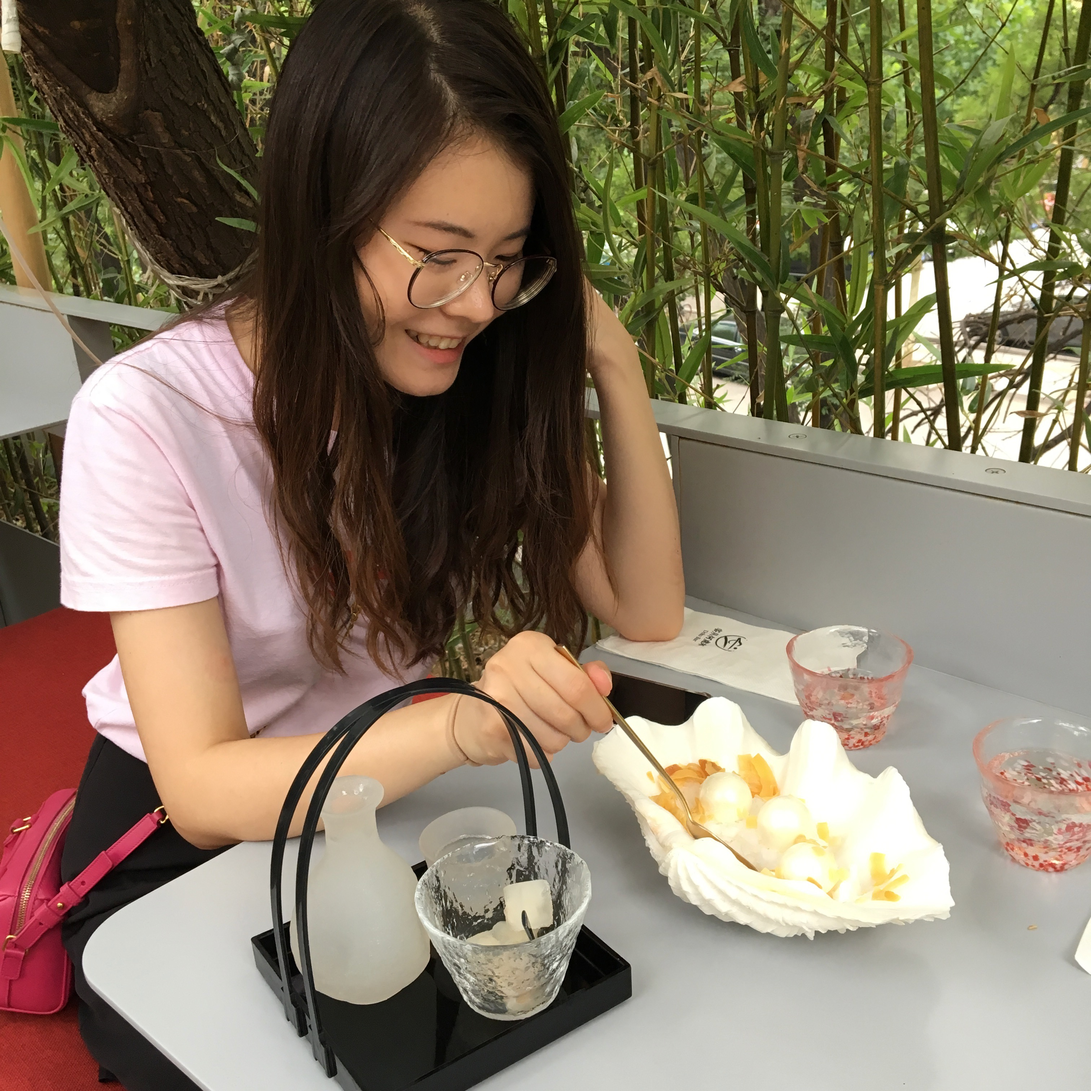
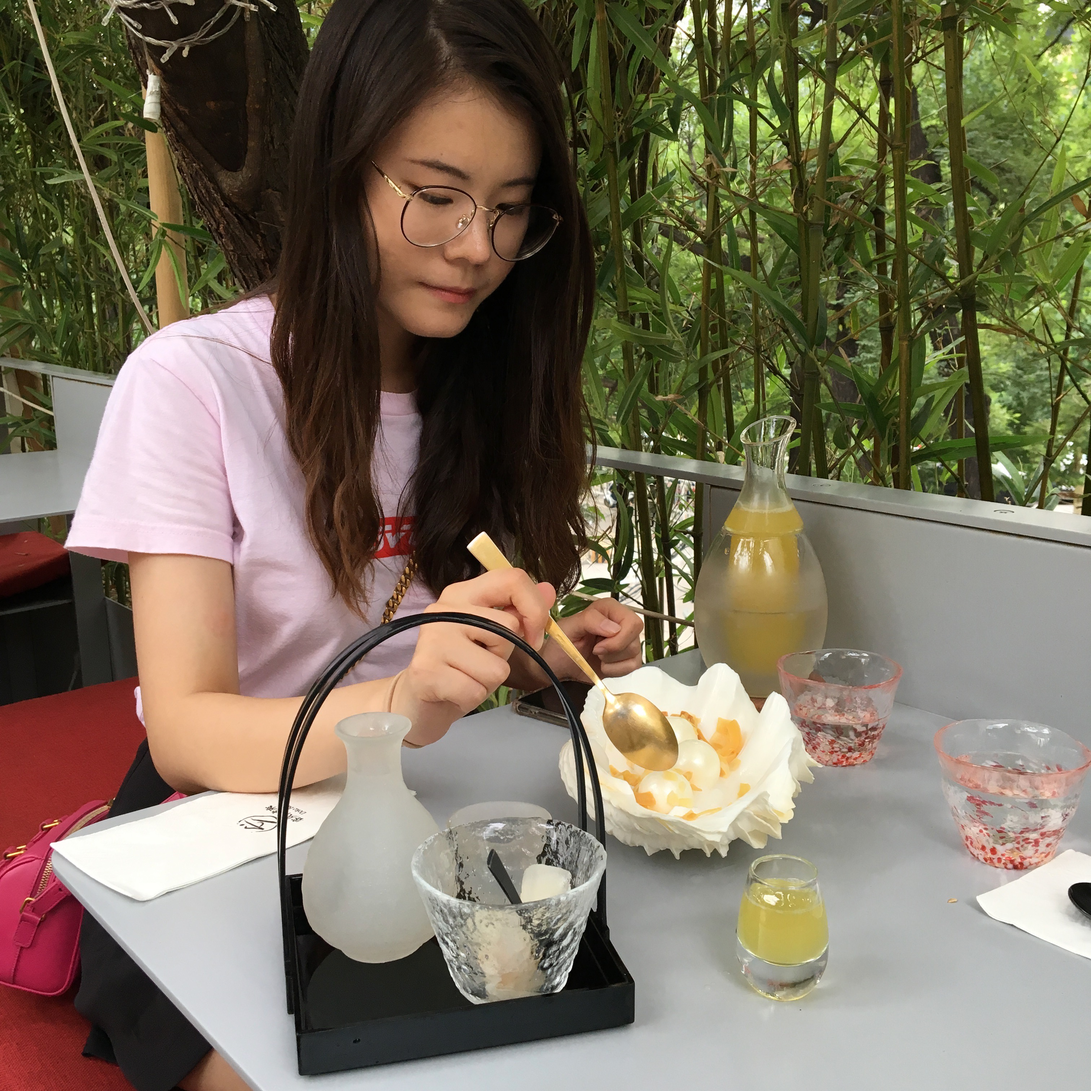
Site updated: 2018-07-19 09:22:28

diff --git a/2018/07/01/18summer/index.html b/2018/07/01/18summer/index.html
@@ -129,8 +129,10 @@
 <meta property="og:locale" content="zh-Hans">
 <meta property="og:image" content="https://selenp.github.io/pics/18summer/1.jpg">
 <meta property="og:image" content="https://selenp.github.io/pics/18summer/2.jpg">
-<meta property="og:image" content="https://selenp.github.io/pics/18summer/3.png">
-<meta property="og:updated_time" content="2018-07-18T09:26:57.037Z">
+<meta property="og:image" content="https://selenp.github.io/pics/18summer/3.jpeg">
+<meta property="og:image" content="https://selenp.github.io/pics/18summer/4.jpg">
+<meta property="og:image" content="https://selenp.github.io/pics/18summer/5.jpg">
+<meta property="og:updated_time" content="2018-07-19T01:22:06.502Z">
 <meta name="twitter:card" content="summary">
 <meta name="twitter:title" content="这个难熬的夏天">
 <meta name="twitter:description" content="个人日记，随便写写">
@@ -446,7 +448,7 @@
                   <span class="post-meta-item-text">字数统计&#58;</span>
                 
                 <span title="字数统计">
-                  1,347
+                  1,512
                 </span>
               
 
@@ -494,12 +496,13 @@
 <p><div style="width:600px;height:auto;text-align:center;float:none;margin-left:auto;margin-right:auto;"><img src="/pics/18summer/2.jpg" style="width:100%;height:auto;"></div><br>&nbsp;&nbsp;&nbsp;&nbsp;因为从没坐过软卧，所以我这次想要尝试一下，软卧每个舱室有四张床，上下铺结构，虽然卫生条件依然不是很理想，但是相比硬卧已经优秀太多了。我们房间有一对来大连游玩的夫妇和一位阿姨，他们在北京工作，趁着周末潇洒一遭，自从他们上车后，叔叔全程静默在床上玩手机，阿姨一直在和我尬聊。在火车上睡的一晚质量尚可，和比记忆中的火车卧铺比起来已经好太多了。早晨醒来后不到7点就有人陆陆续续起床去车尾洗漱了，我食了半碗泡面，吃了想吐。<br><br>&nbsp;&nbsp;&nbsp;&nbsp;一下火车就干收到了北京的热，那是难以用文字表达的热，我赶紧跟着队伍逃离了月台。 Cindy 早早就到火车站接我去了（这个傻子在火车站找不到东南西北，我从出站口出来的，谁知她在进站口等我，要不是她一口浓郁的京腔，难以相信眼前这个人真的在北京生活了20多年）。三周不见，甚是想念，看见在旗杆下一脸懵逼的她，我嘀咕了一句：还是那样，没变。<br><br>&nbsp;&nbsp;&nbsp;&nbsp;牵着她的手我才逐渐意识到<span class="label info">『小别胜新婚』</span>的含义，我竟然开始有些腼腆，望着身旁这个穿短裙的姑娘，心中不自然的萌发出有些初恋般的喜悦。<br></p>
 <p><center><h2>天坛医院奇遇记</h2></center><br>&nbsp;&nbsp;&nbsp;&nbsp;我们在路上谈的欢快，顺着二环一路向北，去机场接李仙惠的爸爸。叔叔刚刚出差回来，李仙惠的原计划是接上叔叔后，直接去她家吃午饭。可是这个原本看似美好的计划被一个突如其来的电话打乱了: 李仙惠的二大妈进医院了。<br><br>&nbsp;&nbsp;&nbsp;&nbsp;到了天坛医院才得知，李仙惠的二大妈已经年过60了，由于天气炎热加上心脏问题，在洗澡出来后晕了过去，我们看到她的时候，老人家已经昏迷在担架床上了。由于怕是大脑的原因，医生建议先做一下 CT 扫描，我负责帮着把老人家抬到了 CT 床上，也算是力所能及了吧。我们一直等到二大妈做上了点滴，才放心的回李仙惠家吃午饭。<br><br>&nbsp;&nbsp;&nbsp;&nbsp;李仙惠的妈妈原本打算做一桌子好吃的招待我，不得不被突如其来的事故打断，不过仅剩的排骨还是很好吃，和我做的不是一种风格，但却有着别样的可口。在静下来后，我感觉上午的经历有点像电视剧一样，希望老人家能早早的好起来🙏。</p>
 <p><center><h2>三里屯还是火焰山</h2></center><br>&nbsp;&nbsp;&nbsp;&nbsp;我和 Cindy 在团结湖站下车，路过一排五颜六色的国旗（北边是使馆区）和熙熙攘攘的酒吧街，不远处就可以看到传说中的优衣库了。与我期待中的一样，三里屯太古里是一个充斥着网红小姐姐和潮牌店的地方，流光溢彩映衬着大都市喧嚣与奢华,焦躁之外有一种慵懒的气息，在这里你可以发现前天刚发售的联名鞋，也可以找到排队3小时都不一定买得到的奶茶，Edison 的 Juice 也在这里，也许是直男的我太缺乏艺术细胞，Juice里的衣服还没 Uraban Outfitters 的好看。我们在这简单的转转就奔向一点点买冷饮了，因为实在太热。<br></p>
-<p><div style="width:600px;height:auto;text-align:center;float:none;margin-left:auto;margin-right:auto;"><img src="/pics/18summer/3.png" style="width:100%;height:auto;"></div><br>&nbsp;&nbsp;&nbsp;&nbsp;Cindy 和女伴出来的时候，一般在这个时间段会找一个漂亮的地方喝下午茶，这次我决定跟着 Cindy 走，去客从何处来点上一杯冷饮来避暑。<br>&nbsp;&nbsp;&nbsp;&nbsp;</p>
-<p><center> <a class="btn" href="https://youtu.be/MG32o8OSKuw" target="_blank" rel="noopener"><i class="fa fa-youtube fa-fw"></i>Youtube</a><span class="label default">三里屯 - 客从何处来</span></center><br>
-        <div id="aplayer-rLJHAySe" class="aplayer aplayer-tag-marker" style="margin-bottom: 20px;"></div>
+<p><div style="width:600px;height:auto;text-align:center;float:none;margin-left:auto;margin-right:auto;"><img src="/pics/18summer/3.jpeg" style="width:100%;height:auto;"></div><br>&nbsp;&nbsp;&nbsp;&nbsp;Cindy 和女伴出来的时候，一般在这个时间段会找一个漂亮的地方喝下午茶。所以这次我决定跟着 Cindy 走，Cindy 跟着大众点评走，去客从何处来点上一杯冷饮来避暑。<br>&nbsp;&nbsp;&nbsp;&nbsp;感觉这个甜点的制作过程还是很有意思的，把干冰倒在冰沙上，在撒上金黄色的椰蓉，二氧化碳的快速升华的雾气使得贝壳状的托盘有一种仙人驾鹤西去的蒸腾感。不过要吐槽的是，这家网红店的三楼是一个完全暴露在外的阳台，几遍有些许树荫遮阳，仍是让人难以忍受的燥热。</p>
+<p><center> <a class="btn" href="https://youtu.be/MG32o8OSKuw" target="_blank" rel="noopener"><i class="fa fa-youtube fa-fw"></i>Youtube</a><span class="label default">三里屯 - 客从何处来</span></center><br>&nbsp;&nbsp;&nbsp;&nbsp;我和 Cindy 在这里坐了一个小时，便去坐地铁往回走了，因为晚上要和 Cindy 的家里人吃饭，需要早一些到。</p>
+<p><div style="width: 750px;height:400px;overflow:auto;float:none;margin-left:auto;margin-right:auto;"><div style="width: 350px;height:400px;float:left;"><img src="/pics/18summer/4.jpg" style="width: 100%"></div><div style="width: 350px;height:400px;float:right;"><img src="/pics/18summer/5.jpg" style="width: 100%"></div></div><br>&nbsp;&nbsp;&nbsp;&nbsp;<br>
+        <div id="aplayer-SKTyzYSJ" class="aplayer aplayer-tag-marker" style="margin-bottom: 20px;"></div>
 			  <script>
-				  var options = {"narrow":false,"autoplay":true,"showlrc":3,"mutex":true,"music":[{"title":"离人愁","author":"Dragon Pig","url":"http://link.hhtjim.com/163/536502758.mp3","pic":"/pics/poster/离人愁.jpg","lrc":"https://歌词.lrc"}]};
-				  options.element = document.getElementById("aplayer-rLJHAySe");
+				  var options = {"narrow":false,"autoplay":true,"showlrc":3,"mutex":true,"music":[{"title":"离人愁","author":"李袁杰","url":"http://link.hhtjim.com/163/536502758.mp3","pic":"/pics/poster/离人愁.jpg","lrc":"https://歌词.lrc"},{"title":"五环之歌","author":"岳云鹏","url":"http://link.hhtjim.com/163/32785586.mp3","pic":"/pics/poster/五环之歌.jpg","lrc":"https://歌词.lrc"}]};
+				  options.element = document.getElementById("aplayer-SKTyzYSJ");
 				  var ap = new APlayer(options);
 			    window.aplayers || (window.aplayers = []);
 				  window.aplayers.push(ap);

diff --git a/2018/01/03/cruise/index.html b/2018/01/03/cruise/index.html
@@ -529,10 +529,10 @@
 <p><div style="width:500px;height:auto;text-align:center;float:none;margin-left:auto;margin-right:auto;"><img src="/pics/cruise/14.jpg" style="width:100%;height:auto"></div><br>&nbsp;&nbsp;&nbsp;&nbsp;回到船上之后，我们当天就开始上吐下泻，后来我分析应该是在<span class="label primary">里维埃拉海滩</span>患上了胃肠型感冒。船上的医务室给我们打了点滴，开了处方药，并把我们和正常乘客隔离了24小时后才允以放行，真是一段开(难)心(忘)的经历。</p>
 <p><center><h2><span id="inline-toc">7.</span>旅游总结</h2></center><br>&nbsp;&nbsp;&nbsp;&nbsp;这次巴哈马之行充满了各种各样的传奇经历，虽然有这愉快的片段，但是总体来说我还是收获了很多。毕竟9天花了1200刀去了这么多地方已经是非常的划算了。如果再给我一次机会，我同样会选择坐游轮出行，不过下次我会选一艘更大更新的船。<br><br>&nbsp;&nbsp;&nbsp;&nbsp;接近两周的时间里，我和 Cindy 不但没有吵过一次架，而且还因为同样的患病经历给恋爱关系加上了新的标签”病友”，都说只有情侣一同出去旅行，才会发现能不能和的来，如果真是这么说，那么我觉得咱俩应该是分不开了@<span class="label default"><a href="https://www.facebook.com/xianhui.li.9?ref=br_rs" target="_blank" rel="noopener"> Cindy. </a></span></p>
 <p><div style="width:300px;height:auto;text-align:center;float:none;margin-left:auto;margin-right:auto;"><img src="/pics/cruise/15.jpg" style="width:100%;height:auto"></div><br>
-        <div id="aplayer-kgijHmqB" class="aplayer aplayer-tag-marker" style="margin-bottom: 20px;"></div>
+        <div id="aplayer-VtlIddIb" class="aplayer aplayer-tag-marker" style="margin-bottom: 20px;"></div>
 			  <script>
 				  var options = {"narrow":false,"autoplay":true,"showlrc":3,"mutex":true,"music":[{"title":"Tonight I Celebrate My Love","author":"Christopher Peacock","url":"http://link.hhtjim.com/163/1196505.mp3","pic":"/pics/poster/tonighticelebrate.jpeg","lrc":"https://歌词.lrc"},{"title":"Always With Me","author":"木村弓 / 奥户巴寿","url":"http://link.hhtjim.com/163/5267808.mp3","pic":"/pics/poster/alwayswithme.jpg","lrc":"https://歌词.lrc"},{"title":"安静的午后","author":"Pianoboy高至豪","url":"http://link.hhtjim.com/163/139730.mp3","pic":"/pics/poster/安静的午后.jpg","lrc":"https://歌词.lrc"}]};
-				  options.element = document.getElementById("aplayer-kgijHmqB");
+				  options.element = document.getElementById("aplayer-VtlIddIb");
 				  var ap = new APlayer(options);
 			    window.aplayers || (window.aplayers = []);
 				  window.aplayers.push(ap);

diff --git a/1995/09/06/helloworld/index.html b/1995/09/06/helloworld/index.html
@@ -482,10 +482,10 @@
 
       
         <p><center><h2>点首歌给你</h2></center><br>
-        <div id="aplayer-ixwrbZiv" class="aplayer aplayer-tag-marker" style="margin-bottom: 20px;"></div>
+        <div id="aplayer-dyOteClB" class="aplayer aplayer-tag-marker" style="margin-bottom: 20px;"></div>
 			  <script>
 				  var options = {"narrow":false,"autoplay":true,"showlrc":3,"mutex":true,"music":[{"title":"全部都是你","author":"Dragon Pig","url":"http://link.hhtjim.com/163/465920905.mp3","pic":"/pics/poster/全部都是你.jpg","lrc":"https://歌词.lrc"},{"title":"再也没有","author":"Ryan.B / AY楊佬叁","url":"http://link.hhtjim.com/163/480580003.mp3","pic":"/pics/poster/再也没有.jpg","lrc":"https://歌词.lrc"},{"title":"骄傲的少年","author":"南征北战","url":"http://link.hhtjim.com/163/408332757.mp3","pic":"/pics/poster/骄傲的少年.jpg","lrc":"https://歌词.lrc"},{"title":"骗自己PT.2","author":"AY杨老三 / Noor-99","url":"http://link.hhtjim.com/163/451169473.mp3","pic":"/pics/poster/骗自己.jpg","lrc":"https://歌词.lrc"},{"title":"不用去猜","author":"Jony J","url":"http://link.hhtjim.com/163/490595927.mp3","pic":"/pics/poster/不用去猜.jpg","lrc":"https://歌词.lrc"}]};
-				  options.element = document.getElementById("aplayer-ixwrbZiv");
+				  options.element = document.getElementById("aplayer-dyOteClB");
 				  var ap = new APlayer(options);
 			    window.aplayers || (window.aplayers = []);
 				  window.aplayers.push(ap);

diff --git a/index.html b/index.html
@@ -1008,7 +1008,7 @@
                   <span class="post-meta-item-text">字数统计&#58;</span>
                 
                 <span title="字数统计">
-                  1,347
+                  1,512
                 </span>
               
 

diff --git a/css/main.css b/css/main.css
@@ -2075,7 +2075,7 @@ img:hover {
   width: 4px;
   height: 4px;
   border-radius: 50%;
-  background: #62ffbd;
+  background: #9e11c3;
 }
 .links-of-blogroll {
   font-size: 13px;
